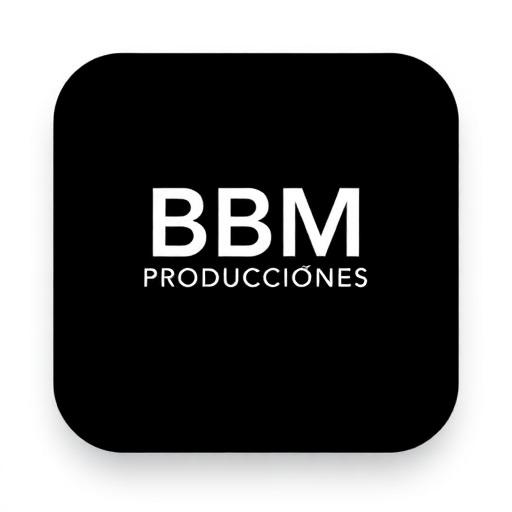
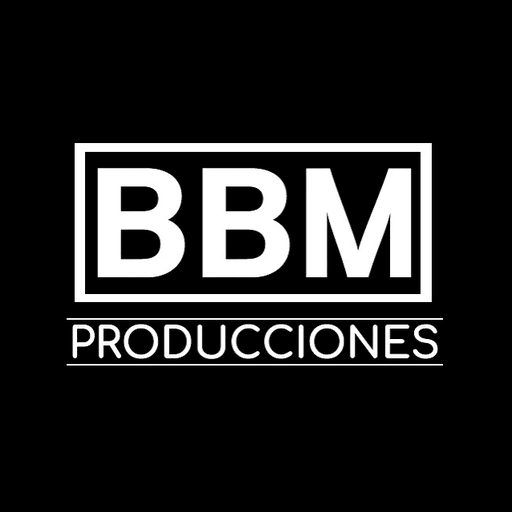
Plano LED se abre en pestana propia, y el icono vuelve a ser el de BBM
1. El boton del menu abre /plano-led/ en una pestana nueva, en vez de mostrar
   la herramienta dentro de un marco. Metida en el PLANNER quedaba apretada
   contra el menu y el encabezado, y esa herramienta necesita la ventana
   completa para dibujar. Se borra la pagina del marco (PlanoLed.tsx) y su
   ruta: ya no hay nada que envuelva.

   Los items de menu marcados "externo" dejan de pasar por React Router. En
   celular tambien: navigate() habria mandado al 404 de la aplicacion en vez
   de abrir el archivo.

2. El icono del sitio era el corazon de Lovable. Se veia en la pestana del
   navegador de todo el equipo y de cualquiera a quien se le pasara el enlace
   del Plano LED, que es justo el caso en que menos conviene.

   Ahora favicon.ico y favicon.png llevan la caja BBM sola, sin la palabra
   PRODUCCIONES: a 16 px esa palabra es una mancha gris, mientras que el
   recuadro con las tres letras si se lee. Los iconos de aplicacion
   (pwa-192 y pwa-512) llevan el logo completo, que ahi si cabe.

   El Plano LED declara el icono explicitamente: al ser un archivo suelto, sin
   esas lineas el navegador caia en /favicon.ico por descarte.

Claude-Session: https://claude.ai/code/session_01HXmz4XpTXABBPPAZXvdQWm

diff --git a/src/components/AppSidebar.tsx b/src/components/AppSidebar.tsx
@@ -14,6 +14,7 @@ import {
   Briefcase,
   TrendingUp,
   LayoutGrid,
+  ExternalLink,
 } from "lucide-react";
 import bbmLogo from "@/assets/bbm-logo.png";
 import { useNavigate } from "react-router-dom";
@@ -40,7 +41,10 @@ const mainNavItems = [
   { title: "Panel General", url: "/panel-general", icon: Grid3X3, panel: "general" },
   { title: "Panel Operaciones", url: "/panel-operaciones", icon: Wrench, panel: "operaciones" },
   // Sin "panel": es una herramienta, la ve cualquiera que entre.
-  { title: "Plano LED", url: "/plano-led-herramienta", icon: LayoutGrid },
+  // "externo": es un archivo suelto, no una pantalla del PLANNER. Se abre en
+  // pestana propia para que use toda la ventana; metido aqui adentro quedaba
+  // apretado contra el menu y el encabezado.
+  { title: "Plano LED", url: "/plano-led/", icon: LayoutGrid, externo: true },
   
   // Reportes salio del menu; en su lugar va Ventas por comercial, que antes
   // era una ventana dentro del Panel Directivo. La ruta /panel-reportes sigue
@@ -122,6 +126,27 @@ export function AppSidebar() {
                     // Don't render items user doesn't have access to
                     if (!hasAccess) return null;
                     
+                    // Los externos no son rutas de React: se abren aparte.
+                    if (item.externo) {
+                      return (
+                        <SidebarMenuItem key={item.title}>
+                          <SidebarMenuButton asChild>
+                            <a
+                              href={item.url}
+                              target="_blank"
+                              rel="noopener noreferrer"
+                              className="flex items-center gap-3 px-3 py-2 rounded-md transition-colors hover:bg-sidebar-accent"
+                              title={`${item.title} — se abre en una pestaña nueva`}
+                            >
+                              <item.icon className="w-4 h-4" />
+                              <span className="text-sm">{item.title}</span>
+                              <ExternalLink className="w-3 h-3 ml-auto opacity-40" />
+                            </a>
+                          </SidebarMenuButton>
+                        </SidebarMenuItem>
+                      );
+                    }
+
                     return (
                       <SidebarMenuItem key={item.title}>
                         <SidebarMenuButton asChild>

diff --git a/src/components/MobileBottomNav.tsx b/src/components/MobileBottomNav.tsx
@@ -27,7 +27,9 @@ const moreNavItems = [
   // Reportes salio del menu (ver AppSidebar.tsx); en su lugar va Ventas.
   // { title: "Reportes", url: "/panel-reportes", icon: FileBarChart, panel: "reportes", adminOnly: true },
   { title: "Ventas por comercial", url: "/panel-ventas", icon: TrendingUp, panel: "directivo" },
-  { title: "Plano LED", url: "/plano-led-herramienta", icon: LayoutGrid },
+  // Archivo suelto, no pantalla del PLANNER: se abre en pestana propia para
+  // que use toda la ventana.
+  { title: "Plano LED", url: "/plano-led/", icon: LayoutGrid, externo: true },
   { title: "Usuarios", url: "/usuarios", icon: Users, panel: "usuarios", adminOnly: true },
   { title: "Clientes", url: "/clientes", icon: Users, panel: "clientes", adminOnly: true },
   { title: "Empleados", url: "/empleados", icon: Users, panel: "empleados", adminOnly: true },
@@ -43,7 +45,14 @@ export function MobileBottomNav() {
 
   const currentPath = location.pathname;
 
-  const handleNavigation = (url: string) => {
+  const handleNavigation = (url: string, externo?: boolean) => {
+    // Un externo no es una ruta de React Router: navigate() lo mandaria al
+    // 404 de la aplicacion en vez de abrir el archivo.
+    if (externo) {
+      window.open(url, "_blank", "noopener,noreferrer");
+      setMoreOpen(false);
+      return;
+    }
     navigate(url);
     setMoreOpen(false);
   };
@@ -77,7 +86,7 @@ export function MobileBottomNav() {
           return (
             <button
               key={item.url}
-              onClick={() => handleNavigation(item.url)}
+              onClick={() => handleNavigation(item.url, (item as { externo?: boolean }).externo)}
               className={cn(
                 "flex flex-col items-center justify-center gap-0.5 min-w-[56px] h-12 px-2 rounded-md transition-all duration-200 touch-manipulation",
                 isActive 
@@ -141,7 +150,7 @@ export function MobileBottomNav() {
                 return (
                   <button
                     key={item.url}
-                    onClick={() => handleNavigation(item.url)}
+                    onClick={() => handleNavigation(item.url, (item as { externo?: boolean }).externo)}
                     className={cn(
                       "flex flex-col items-center justify-center gap-2 p-4 rounded-xl transition-all duration-200 touch-manipulation min-h-[80px]",
                       isActive 

diff --git a/src/App.tsx b/src/App.tsx
@@ -31,7 +31,6 @@ import InstalarApp from "./pages/InstalarApp";
 
 import PanelReportes from "./pages/PanelReportes";
 import PanelVentas from "./pages/PanelVentas";
-import PlanoLed from "./pages/PlanoLed";
 
 const queryClient = new QueryClient();
 
@@ -82,14 +81,6 @@ const App = () => (
                       <HistorialCotizaciones />
                     </ProtectedRoute>
                   } />
-                  {/* Plano LED - lo ve cualquiera que entre; sin requiredPanel,
-                      porque no es un panel de gestion sino una herramienta. */}
-                  <Route path="/plano-led-herramienta" element={
-                    <ProtectedRoute>
-                      <PlanoLed />
-                    </ProtectedRoute>
-                  } />
-
                   {/* Ventas por comercial - ocupa el lugar que tenia Reportes en el menu */}
                   <Route path="/panel-ventas" element={
                     <ProtectedRoute requiredPanel="directivo">

diff --git a/public/plano-led/index.html b/public/plano-led/index.html
@@ -9,6 +9,9 @@
   img{max-width:100%}
   [hidden]{display:none!important}
 </style>
+<link rel="icon" type="image/png" sizes="32x32" href="/favicon.png">
+<link rel="icon" href="/favicon.ico" sizes="any">
+<link rel="apple-touch-icon" href="/pwa-192x192.png">
 <title>Plano LED BBM</title>
 <link rel="preconnect" href="https://fonts.googleapis.com">
 <link rel="preconnect" href="https://fonts.gstatic.com" crossorigin>
@@ -392,7 +395,7 @@ footer{margin-top:22px;font-size:11.5px;color:var(--ink-3);text-align:center;pad
   </main>
 </div>
 
-<footer>BBM Producciones · Big Brand Moments — los valores de peso y consumo son los del módulo cargado arriba; ajústalos con la ficha real del fabricante.</footer>
+<footer>BBM Producciones — los valores de peso y consumo son los del módulo cargado arriba; ajústalos con la ficha real del fabricante.</footer>
 </div>
 
 <script>

diff --git a/src/components/MobileHeader.tsx b/src/components/MobileHeader.tsx
@@ -13,7 +13,6 @@ import {
   Plus,
   FileBarChart,
   TrendingUp,
-  LayoutGrid,
 } from "lucide-react";
 import { Button } from "@/components/ui/button";
 
@@ -40,7 +39,6 @@ const routeConfig: Record<string, RouteConfigItem> = {
   "/calendar": { title: "Calendario", icon: Calendar },
   "/panel-reportes": { title: "Reportes", icon: FileBarChart },
   "/panel-ventas": { title: "Ventas", icon: TrendingUp },
-  "/plano-led-herramienta": { title: "Plano LED", icon: LayoutGrid },
   "/usuarios": { title: "Usuarios", icon: UserPlus, primaryAction: { icon: Plus, label: "Invitar" } },
   "/clientes": { title: "Clientes", icon: Building2, primaryAction: { icon: Plus, label: "Nuevo" } },
   "/empleados": { title: "Empleados", icon: Users, primaryAction: { icon: Plus, label: "Nuevo" } },
